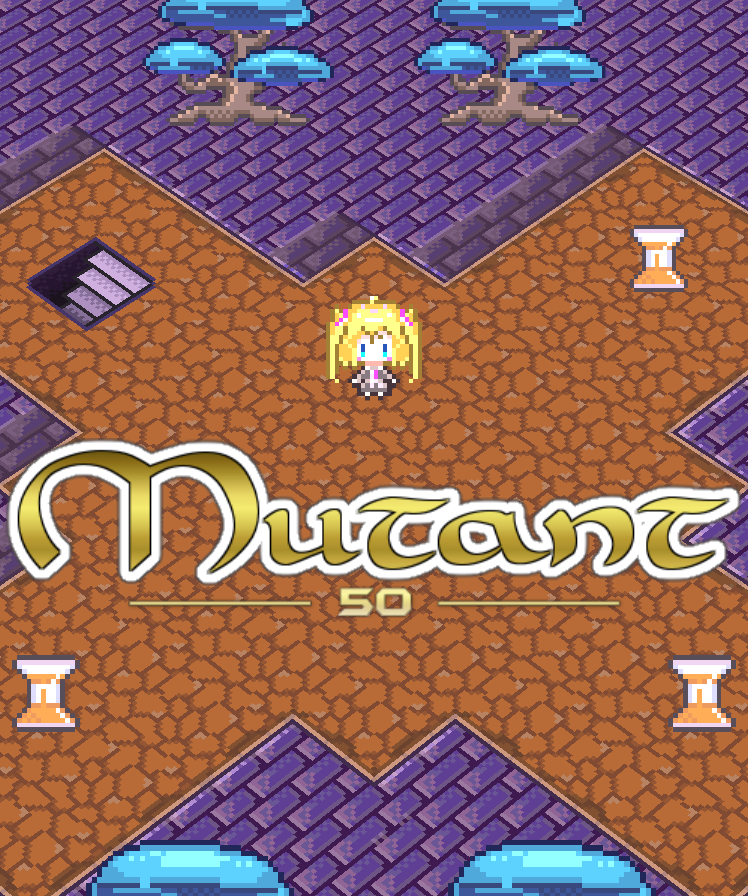
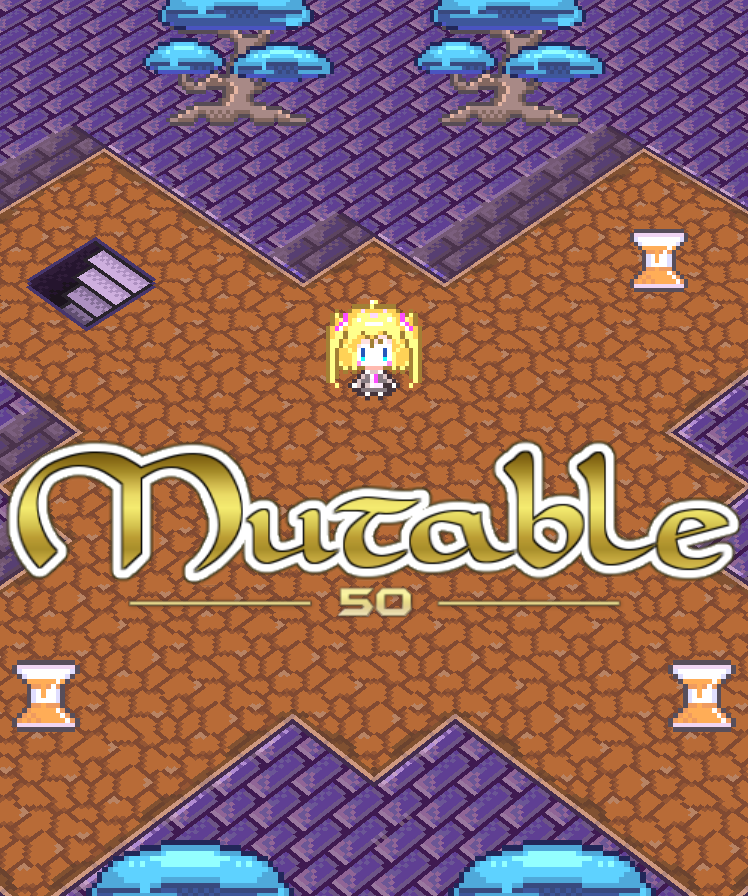
Mutable 50

diff --git a/Sukuu/App/credit.html b/Sukuu/App/credit.html
@@ -37,7 +37,7 @@
 <body>
 
 <div class="container">
-    <h1>『Mutant』クレジット</h1>
+    <h1>『Mutable 50』クレジット</h1>
 
     <h2>プログラム・グラフィック</h2>
     <p>sashi</p>

diff --git a/Sukuu/App/make_distribution.py b/Sukuu/App/make_distribution.py
@@ -2,7 +2,7 @@
 import shutil
 import zipfile
 
-target_dir_name = "Mutant"
+target_dir_name = "Mutable50"
 
 folders_to_copy = [
     "asset/font",
@@ -18,7 +18,7 @@ files_to_copy = [
 
 def _rename_file(dest_file, file):
     if file == "Sukuu.exe":
-        os.rename(dest_file, os.path.join(target_dir_name, "Mutant.exe"))
+        os.rename(dest_file, os.path.join(target_dir_name, "Mutable50.exe"))
 
 
 def main():

diff --git a/Sukuu/Constants.h b/Sukuu/Constants.h
@@ -2,7 +2,7 @@
 
 namespace Constants
 {
-	constexpr StringView GameIdentityTitleName = U"Mutant 50";
+	constexpr StringView GameIdentityTitleName = U"Mutable 50";
 
 	constexpr int CursorSize_64 = 64;
 
